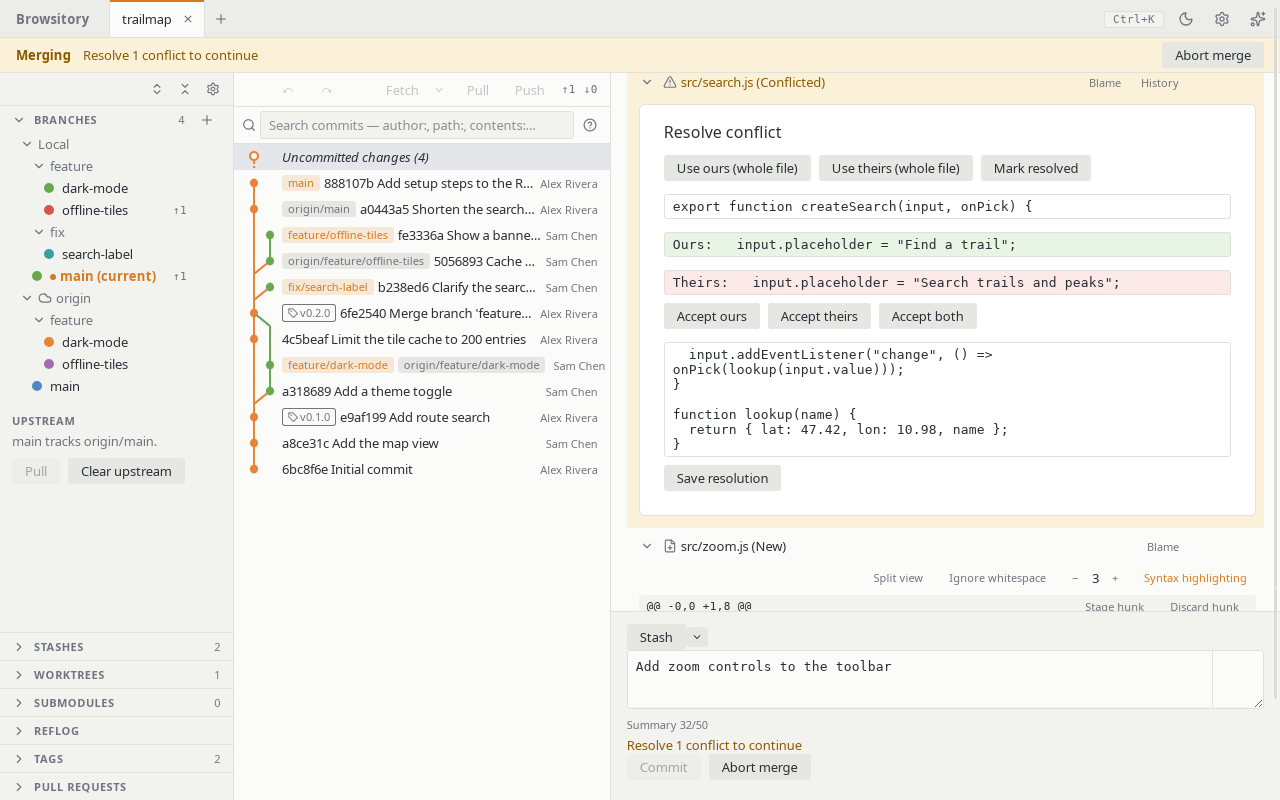
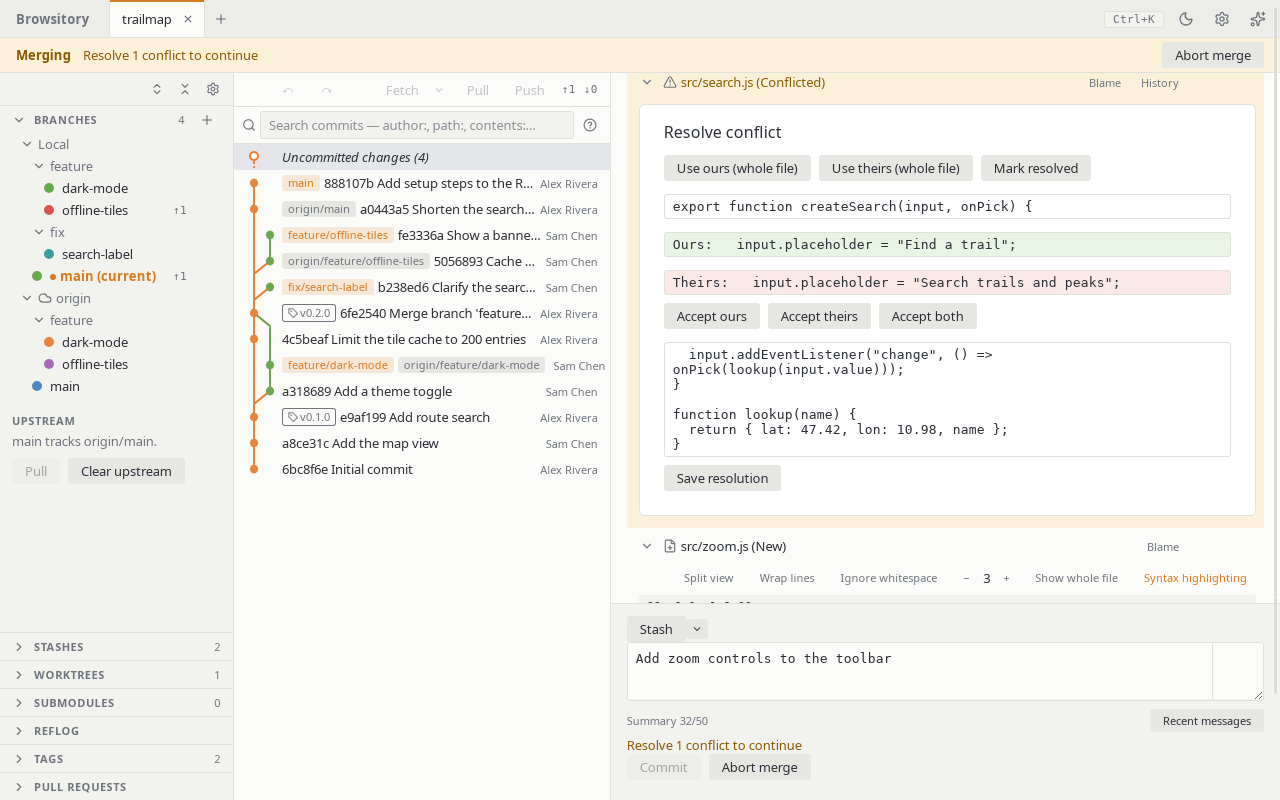
Release 0.5.0: fold changelog (#482)
* Release 0.5.0: fold changelog

Fold the 12 changelog fragments into CHANGELOG.md as ## [0.5.0] - 2026-11-09 with an empty
## [Unreleased] above, and edit the section for readers: a short intro, user-facing topics
first (tags, go to, one-click history edits, committing, automatic fetch, diff, submodules,
detached HEAD), then the internal build-and-release and test sections. The amend-author fix
(#464) joins commit message history under Committing; the identifier-migration E2E fix (#465)
moves from the detached HEAD section to the internal tests. Adds internal lines for changes
that shipped without a fragment (#458, #459, #481).

Versions need no bump: release.yml stamps them from the tag. The guide already covers every
0.5.0 feature.

Claude-Session: https://claude.ai/code/session_01A4tHCKfYXpb97SBkzKe2y2

* Release 0.5.0: refresh guide screenshots

Claude-Session: https://claude.ai/code/session_01A4tHCKfYXpb97SBkzKe2y2

---------

diff --git a/CHANGELOG.md b/CHANGELOG.md
@@ -6,6 +6,131 @@ The format follows [Keep a Changelog](https://keepachangelog.com/en/1.1.0/).
 
 ## [Unreleased]
 
+## [0.5.0] - 2026-11-09
+
+Tags at any commit and on remotes, go-to pickers, one-click history edits from the commit menu,
+automatic fetching, recent commit messages, word wrap and whole-file view in diffs, submodules in
+their own tab, and the commits of a detached HEAD in the graph.
+
+### Tags
+
+- Added: **Create tag…** in a commit's menu in the graph tags that commit (lightweight or
+  annotated, optionally pushed right away), without checking it out first. The name is checked
+  as you type (invalid or taken names). The command palette has **Create tag at HEAD…** and
+  **Create tag at ⟨commit⟩…** for the selected commit (#438).
+- Added: **Branch from tag** in a tag's menu (#438).
+- Added: **Delete from remote…** for a tag, in the Tags panel, the tag badge menu and the
+  command palette: picks the remote when there are several, can delete the local tag as well,
+  and runs `pre-push` with the remote's credentials like a push (#439).
+- Changed: the Tags panel is now the list of tags: one line per tag with a name filter, and each
+  tag's actions in a menu (the "…" button, right-click, Menu key or Shift+F10) with the same
+  items as its badge in the graph. Creating a tag moved to the graph and the command palette
+  (#438).
+
+### Go to a commit, branch, tag or stash
+
+- Added: **Go to commit…**, **Go to branch…**, **Go to tag…** and **Go to stash…** in the
+  command palette select the target and scroll the graph to it without checking anything out.
+  Go to commit takes a SHA prefix, message text or any revision; the graph loads more history
+  when the commit is further down, and when the graph doesn't show it (a hidden branch, a side
+  branch of an isolated branch, no branch at all) a note says why and offers to show it (#441).
+- Added: clicking a tag in the Tags panel, or a branch in the Branches section, selects its
+  commit in the graph the same way. Tag rows are now focusable: Enter or Space goes to the tag,
+  the Menu key or Shift+F10 opens its menu (#441).
+- Changed: in the command palette, a command whose whole label you typed comes first ("go to
+  branch" picks **Go to branch…** over **Go to Branches**) (#441).
+
+### One-click history edits
+
+- Added: the commit menu edits a commit of the current branch in one step: **Reword…**,
+  **Squash with parent**, **Fixup into parent**, **Move up**, **Move down** and **Drop**. Each
+  runs as a one-step interactive rebase, so a conflict pauses it like any rebase and a finished
+  edit is one Undo step. An edit that can't run is disabled with the reason (another branch, a
+  merge commit, the first commit, uncommitted changes, an operation in progress). The palette
+  has them for the selected commit too (#442).
+- Changed: **Edit commit message…** on the latest commit is now **Reword…**; it still opens the
+  amend box (#442).
+
+### Committing
+
+- Added: **Recent messages** in the commit message box puts an earlier message back: the last 20
+  messages committed or amended in Browsitory in this repository (kept per repository on this
+  computer), then the newest commits on the current branch. Picking one replaces the text in the
+  box; Ctrl/Cmd+Z in the field or **Restore message** undoes that (#443).
+- Fixed: with a file history or search results shown in the graph, amending left the **Author**
+  field empty when HEAD wasn't among those results. It now takes HEAD's author from the graph's
+  commits (#464).
+
+### Fetch automatically
+
+- Added: **Preferences → Fetch → Fetch automatically** fetches all remotes in the background
+  every 5, 10 or 30 minutes or every hour (off by default), with an override per repository. It
+  runs quietly for the open tab, uses the repository's Prune choice, waits while the window or
+  VSCode panel is hidden or another action runs, and never asks for credentials or makes the
+  system ask to unlock its credential store: a remote that would need that is skipped and named
+  once in a notice. The sync bar shows when the repository was last fetched (#440).
+
+### Diff
+
+- Added: **Wrap lines** above each diff wraps long lines or lets them scroll sideways, keeping
+  line numbers aligned and line selection working in the unified and split views. Its default
+  is the new **Preferences → Diff → Word wrap** setting: On, Off or Auto (wraps the split view,
+  prose files and diffs with very long lines) (#444).
+- Added: **Show whole file** shows every line of a file with its changes highlighted, in the
+  working tree, commits, stashes and compares. Hunk and line staging work on it; a file over
+  10,000 lines keeps the normal context (#444).
+- Changed: code diffs in the unified view no longer wrap by default (word wrap Auto); choose On
+  in Preferences to wrap everywhere as before (#444).
+
+### Submodules
+
+- Added: **Open in new tab** in a submodule's menu in the Submodules panel (the "…" button,
+  right-click, Menu key or Shift+F10) opens the checked-out submodule as a repository tab of its
+  own, like a worktree; also in the command palette as **Open submodule ⟨path⟩ in new tab**. For
+  a submodule that isn't checked out yet the item is disabled and says why, and the menu offers
+  **Initialize** and **Update** instead. In a linked worktree it opens that worktree's copy of
+  the submodule (#445).
+
+### Detached HEAD in the graph
+
+- Fixed: the graph and commit search now include the commits of a detached HEAD that no branch
+  contains (a commit made after checking out a commit or a tag, a submodule's checkout),
+  whichever branches the graph shows, and the commit HEAD is on has a **HEAD** badge (#467).
+
+### Internal: build and release
+
+- Changed: CI's desktop build and the release build cache the tools the app bundler downloads
+  (for the Windows installers and the Linux AppImage), keyed on the locked bundler version, and
+  download what is missing before bundling with retries and hash checks
+  (`scripts/prefetch-bundler-tools.py`), so a server error during a download no longer fails the
+  bundling (#454).
+- Changed: CI warns on every pull request when the locked bundler version no longer matches the
+  prefetch script's tool list; `docs/RELEASING.md` says how to update it (#458).
+- Changed: the release workflow installs its Linux packages with retries, like CI, so a package
+  mirror hiccup no longer fails a release build (#459).
+- Added: `scripts/prune-merged-branches.sh` lists or deletes local branches whose pull request
+  was squash-merged (#481).
+
+### Internal: test robustness
+
+- Fixed: the desktop E2E test that continues a paused rebase after an app restart could click
+  **Continue rebase** while the restarted app was still settling. It now waits until the button
+  has stayed in place for a second, allows 20 s for the rebase to finish, and names the status
+  strip's last text and any error when it doesn't (#453).
+- Fixed: the E2E test of the data folder move after the identifier change waits until the app
+  has written its stored settings to disk before it stops the app, and says what it found when
+  it fails (#465).
+- Fixed: a desktop E2E test that restarts the app could hang until the test timeout when the new
+  test-driver session never answered. The restart now gets 30 s per attempt and one retry with a
+  fresh driver, and the session logs the driver's and the app's process ids and ports, so a hang
+  shows where it stopped (#457).
+- Fixed: the desktop commit-search E2E test failed now and then because the query typed right
+  after the page reload did not stick; it now types the query again until the matching result
+  shows (#479).
+- Fixed: the desktop rebase-abort E2E test clicks **Abort rebase** once the button is enabled,
+  instead of with a lower-level click that sometimes left the rebase running. A rebase left behind
+  by a failed test is undone afterwards, so the later rebase tests no longer fail on it (#479).
+
 ## [0.4.1] - 2026-11-08
 
 The desktop app 0.4.0 was built but could not be published, so 0.4.1 ships the same changes. If
